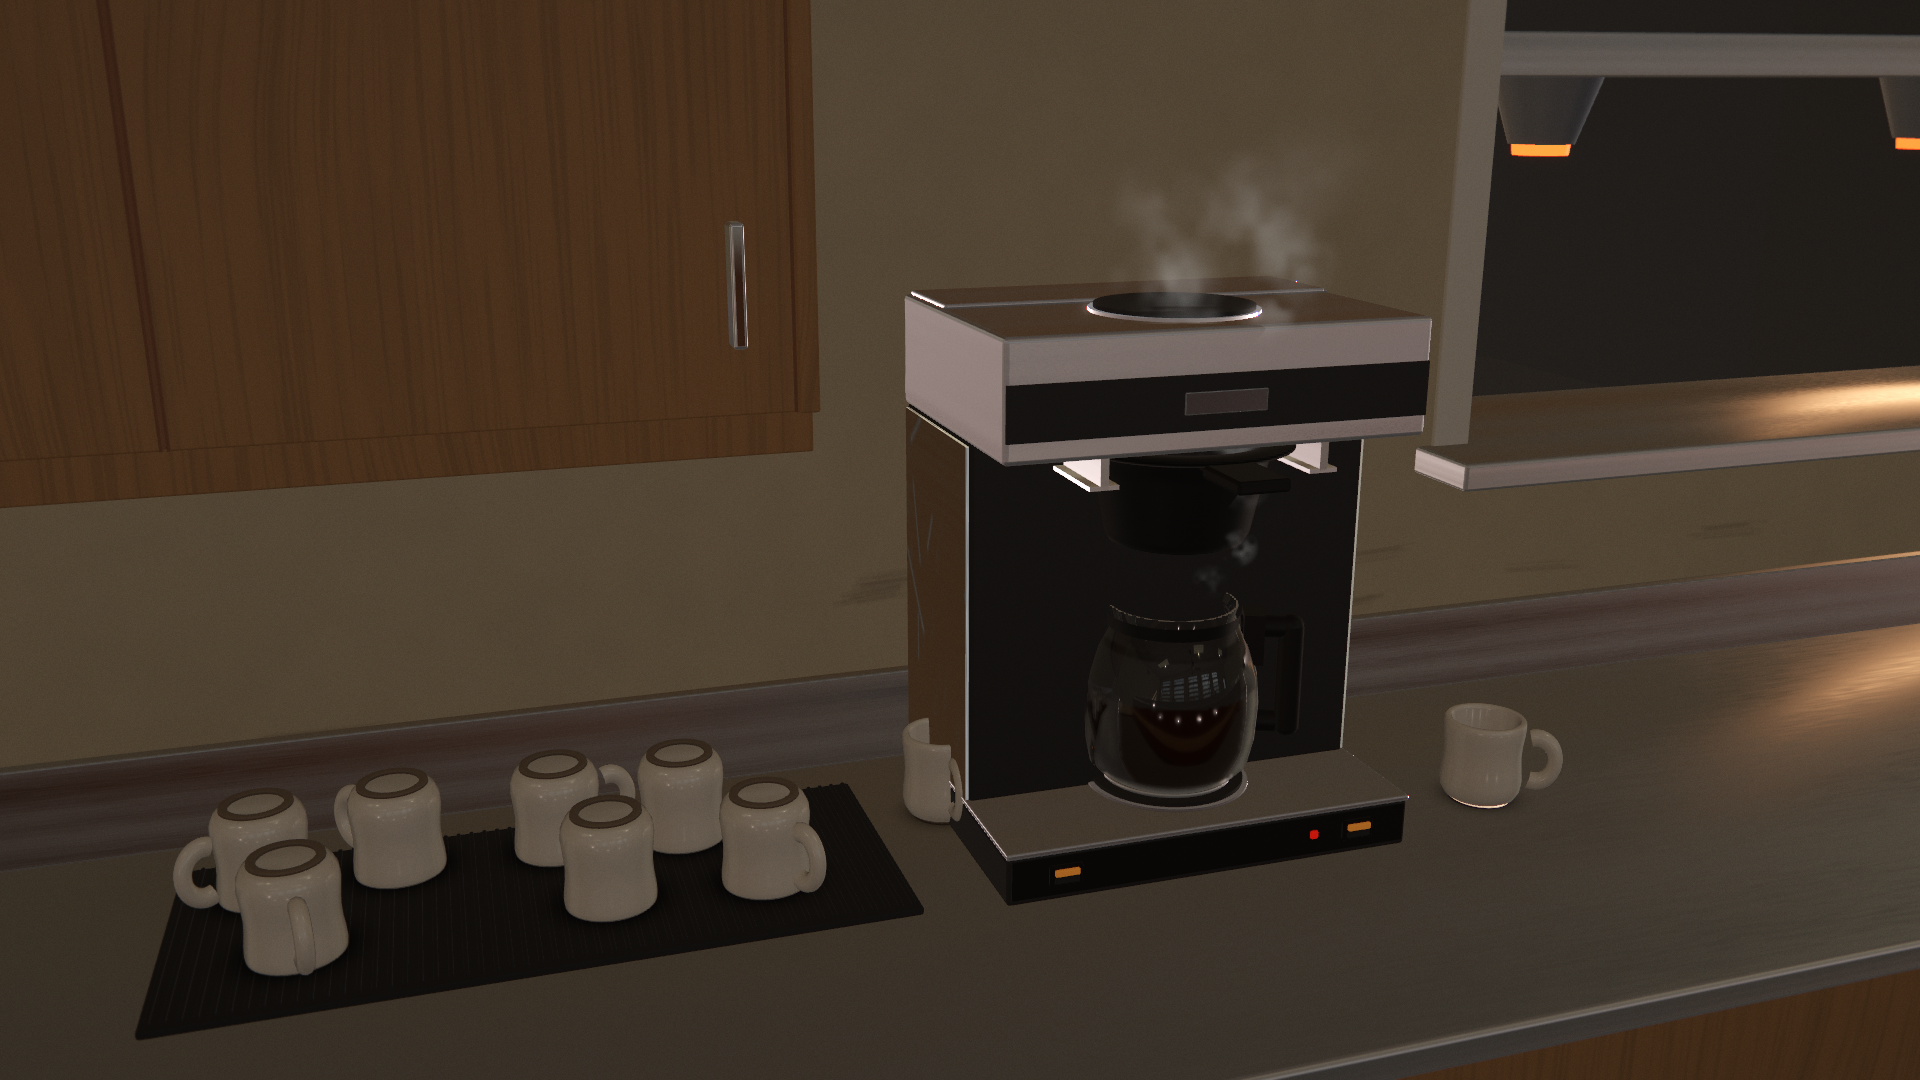
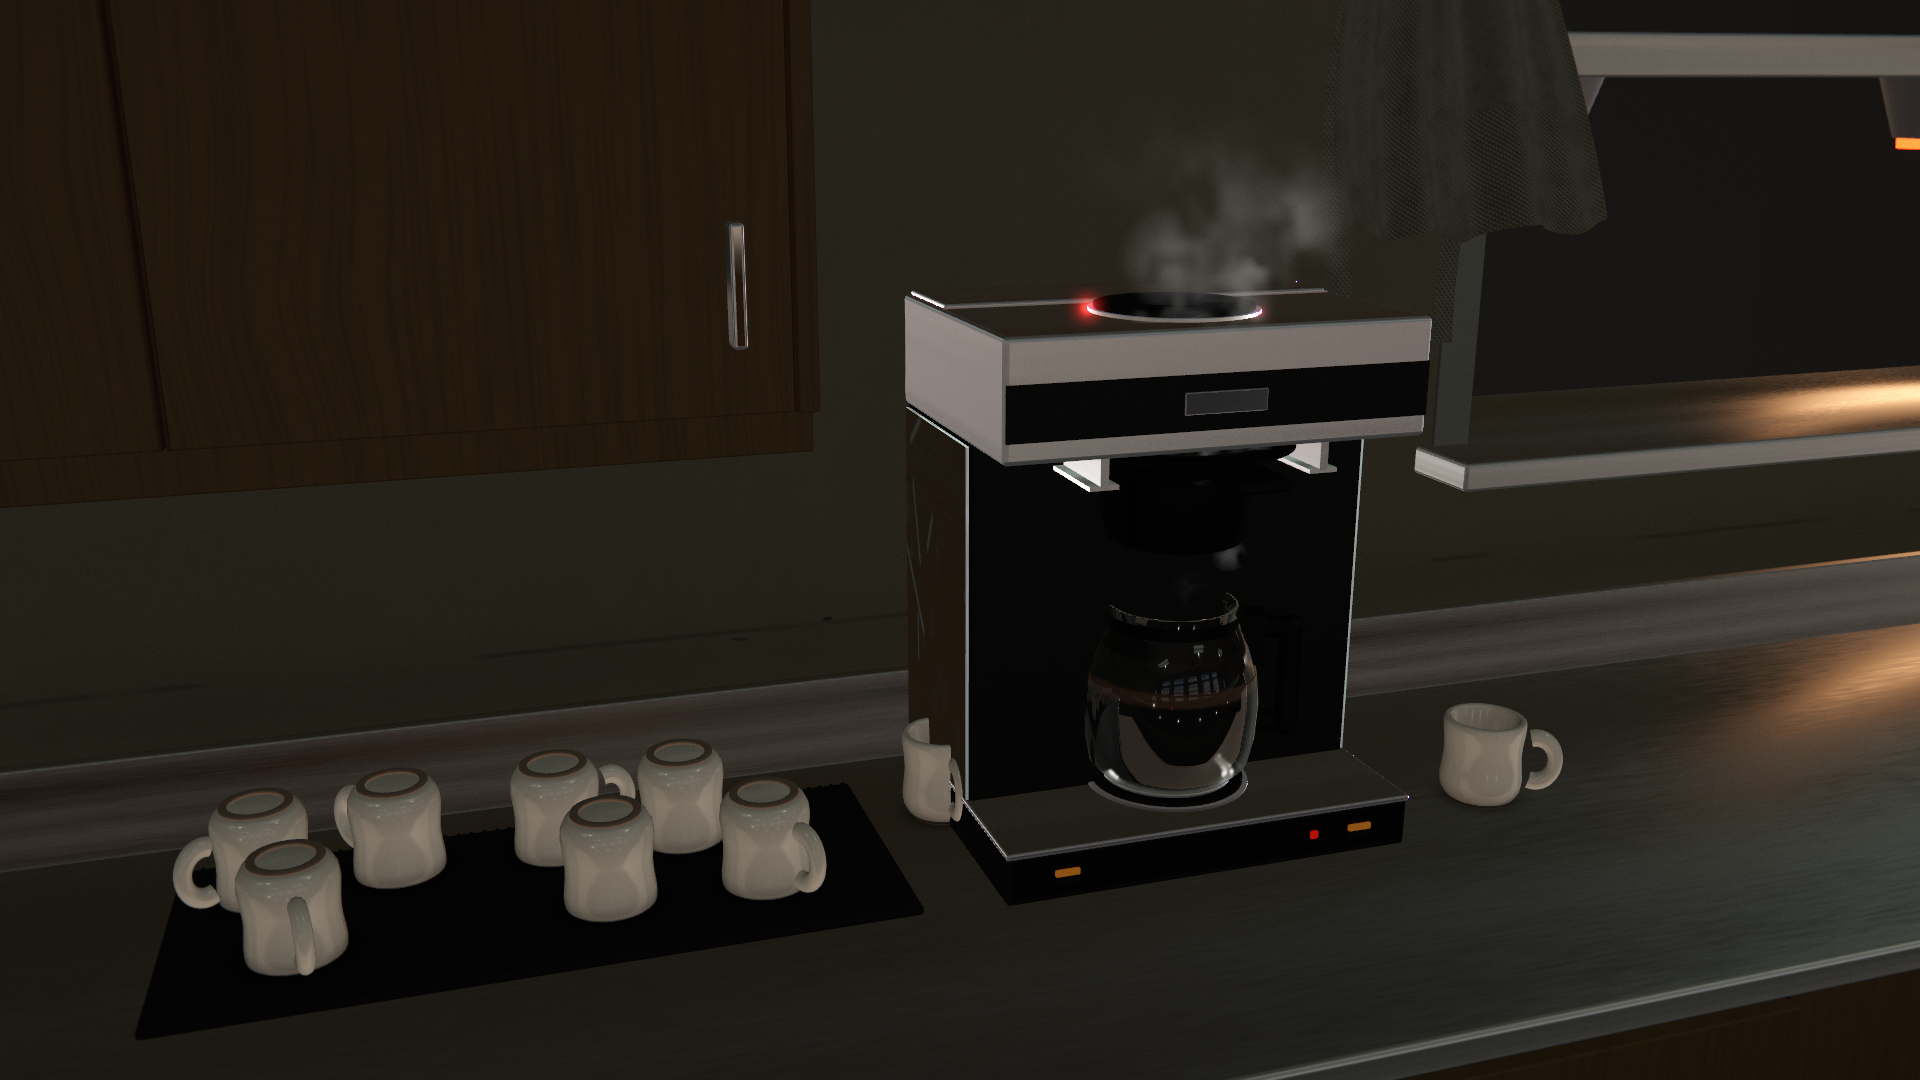
sys4 rev 3: PCSS sampler bound through an onBeforeCompile accessor — materials hooked after install (Pour.ts coffee liquid) were drawn with an unbound sampler2DShadow and rejected by ANGLE (GL_INVALID_OPERATION, mesh vanished)

diff --git a/src/scene/Lighting.ts b/src/scene/Lighting.ts
@@ -611,14 +611,34 @@ export function installPcss(): void {
 	`;
   THREE.ShaderChunk.shadowmap_pars_fragment = chunk.slice(0, start) + pcss + chunk.slice(end);
 
-  // Every program that includes the chunk needs the sampler bound. Materials without their
-  // own onBeforeCompile get it through the prototype; assignSunSplit wraps the others.
-  const proto = THREE.Material.prototype as unknown as { onBeforeCompile: (s: THREE.WebGLProgramParametersWithUniforms, r: THREE.WebGLRenderer) => void };
-  const prev = proto.onBeforeCompile;
-  proto.onBeforeCompile = function (this: THREE.Material, shader, renderer) {
-    prev.call(this, shader, renderer);
-    (shader.uniforms as Record<string, { value: unknown }>).sunPcfMap = SUN_PCF_UNIFORM;
+  // Every program that includes the chunk needs the sampler bound, or the unit-0 default
+  // makes ANGLE reject the draw ("two textures of different types use the same sampler
+  // location") and the mesh silently vanishes — rev 3 lost the coffee-pot liquid that way.
+  // `onBeforeCompile` becomes an accessor on the prototype: materials that never set their
+  // own hook get the default + binding; a hook assigned later (Pour.ts builds its materials
+  // after the lighting is installed) is stored and wrapped by the setter. The wrapper's
+  // toString carries the inner hook's source so the default program cache key still
+  // distinguishes them. Own data properties assigned *before* this ran are untouched by
+  // the accessor; assignSunSplit wraps those (bindSunPcf).
+  type Hook = (this: THREE.Material, s: THREE.WebGLProgramParametersWithUniforms, r: THREE.WebGLRenderer) => void;
+  const proto = THREE.Material.prototype as unknown as { onBeforeCompile: Hook };
+  const base = proto.onBeforeCompile;
+  const wrap = (fn: Hook): Hook => {
+    const wrapped: Hook = function (this: THREE.Material, shader, renderer) {
+      fn.call(this, shader, renderer);
+      (shader.uniforms as Record<string, { value: unknown }>).sunPcfMap = SUN_PCF_UNIFORM;
+    };
+    wrapped.toString = () => fn.toString() + "+sunpcf";
+    (wrapped as unknown as { sunPcf?: boolean }).sunPcf = true;
+    return wrapped;
   };
+  const defaultHook = wrap(base);
+  const SLOT = Symbol("onBeforeCompile");
+  Object.defineProperty(proto, "onBeforeCompile", {
+    configurable: true,
+    get(this: Record<symbol, Hook | undefined>) { return this[SLOT] ?? defaultHook; },
+    set(this: Record<symbol, Hook | undefined>, fn: Hook) { this[SLOT] = (fn as unknown as { sunPcf?: boolean }).sunPcf ? fn : wrap(fn); },
+  });
 }
 
 /** Give a material with its own `onBeforeCompile` the PCSS sampler too (see installPcss). */
